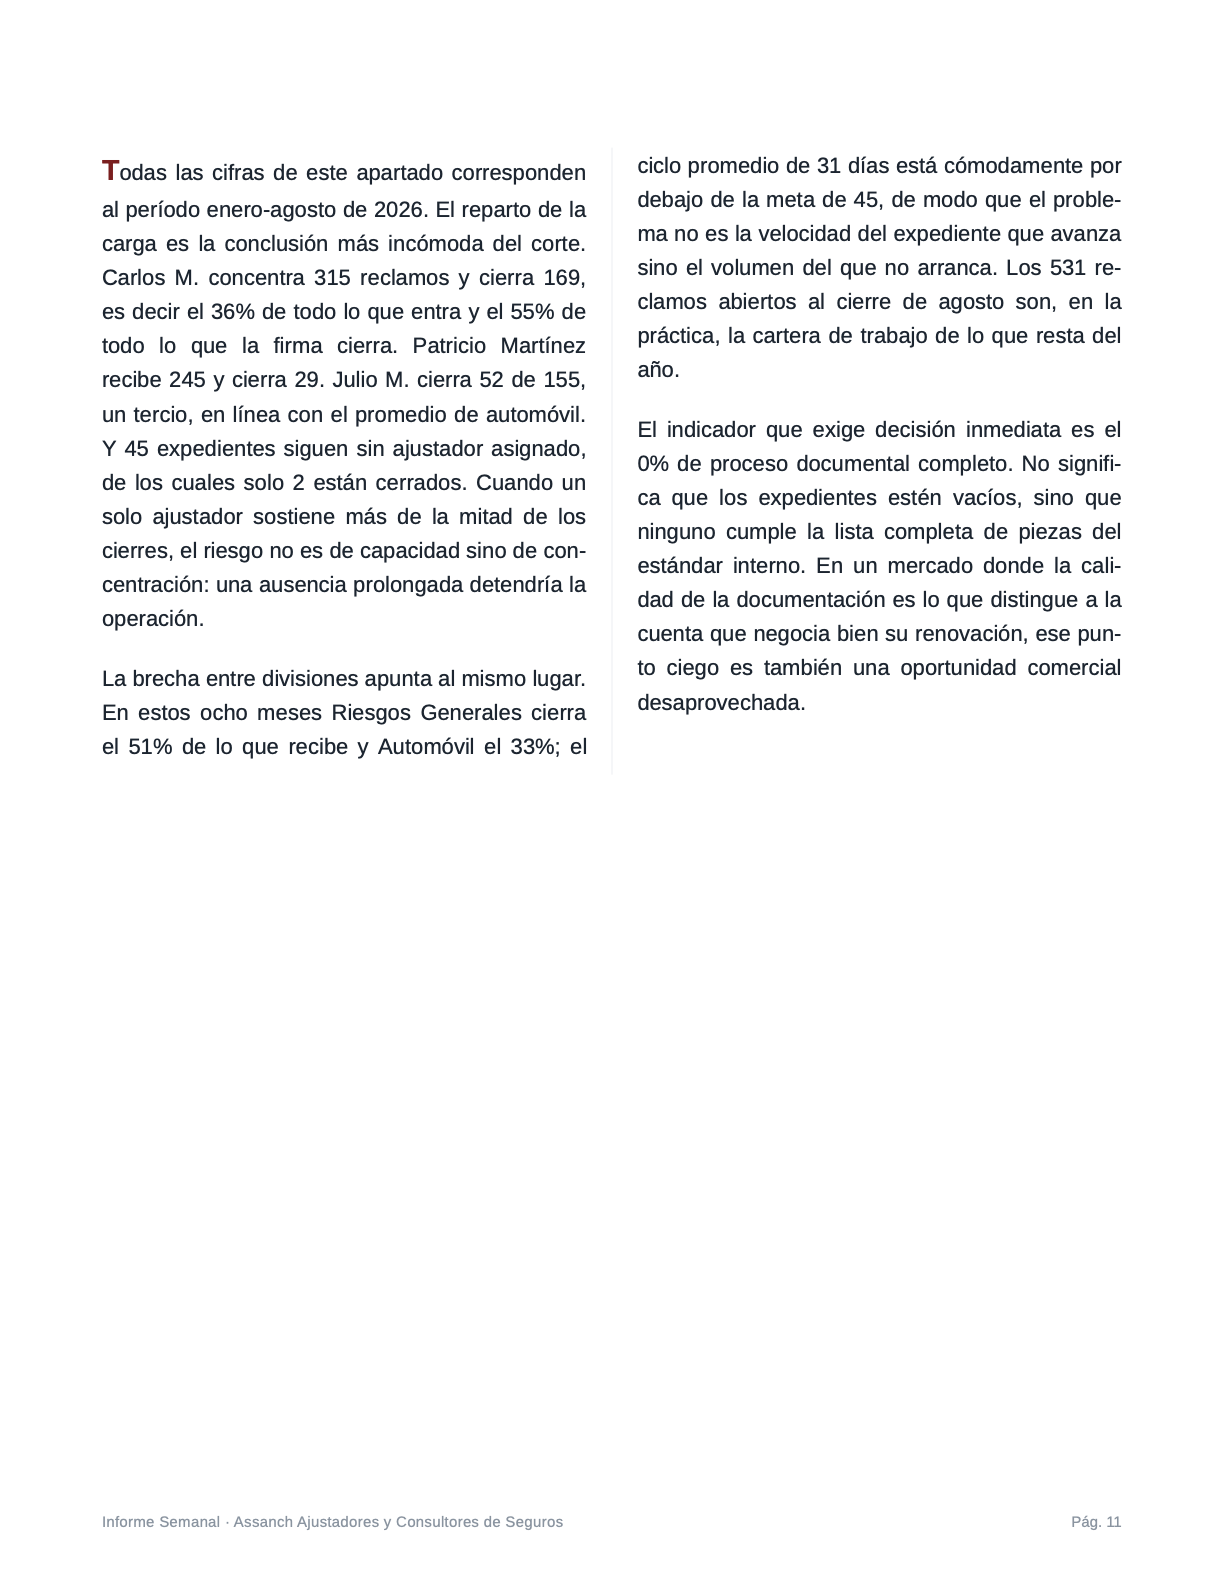
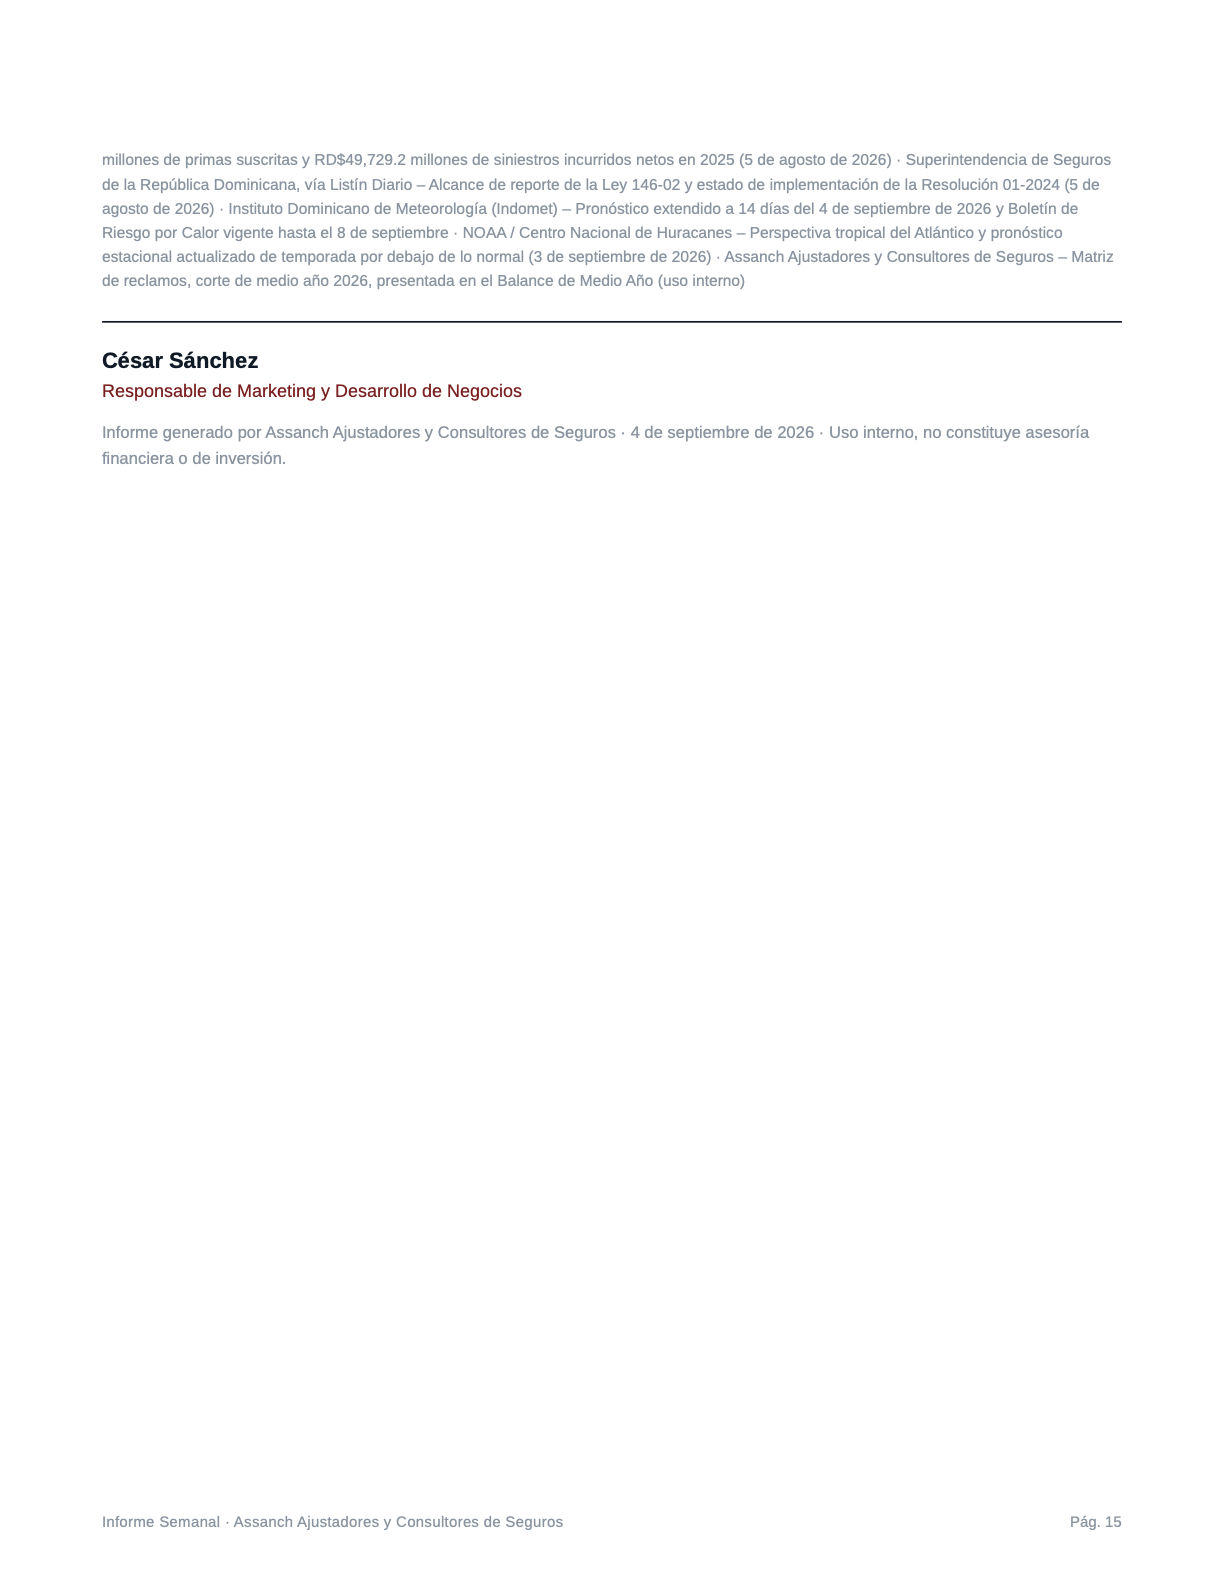
Fuera las cifras internas del balance de medio ano; se queda la IA
SEM36 pasa de 13 a 11 paginas publicadas.

SE EXCLUYEN ENTERAS:
- p10 «Los numeros de la casa»: volumen de expedientes, tasas de cierre, ciclo
  promedio y el punto ciego documental.
- p11: reparto de carga POR AJUSTADOR, con nombre y apellido y su tasa de cierre
  individual. Es lo mas sensible del informe — publica el desempeno de personas
  identificables.

SE QUEDA, RECORTADA:
- p12, la de la IA. Traia debajo las seis diapositivas del workshop en
  miniatura, y en ellas se leen numeros de expediente, nombres de clientes y de
  ajustadores. Se recorta la banda superior: queda el bloque de la IA integro,
  sin una sola cifra. La pagina es mas corta que las demas; es una
  inconsistencia visual asumida frente a publicar los datos o perder el
  contenido bueno.

CLAUDE.md recoge la regla general —fuera cifras y desempeno individual, dentro
los proyectos que fortalecen la relacion con el cliente, como la IA— y documenta
el recorte de paginas mixtas con el codigo para repetirlo.

NOTA. La pagina de la IA aparece ahora sin su encabezado de seccion, que vivia en
la p10. Se arregla en la plantilla del informe, dandole encabezado propio.

Changed region(s): [[0.0621, 0.0928, 0.9314, 0.4949]]

diff --git a/lib/contenido/informes.js b/lib/contenido/informes.js
@@ -41,7 +41,7 @@ export const informes = [
     fecha: '2026-09-04',
     resumen:
       'En Montecarlo, Aon situó el capital global de reaseguro en un récord de 800,000 millones de dólares de cara al 1 de enero, mientras Verisk elevaba a 171,000 millones anuales la pérdida catastrófica que la industria debería estar preparada para absorber. En República Dominicana, Humano Seguros puso cifra al costo del ramo de vehículos: RD$100 millones mensuales en indemnizaciones y una siniestralidad de 55 a 56 %. La edición estrena dos apartados: el ranking del sector asegurador dominicano y el balance de medio año de la firma.',
-    paginas: paginas('2026-09-04', 13),
+    paginas: paginas('2026-09-04', 11),
   },
   {
     slug: '2026-08-28',

diff --git a/CLAUDE.md b/CLAUDE.md
@@ -2,33 +2,87 @@
 
 # Reglas del proyecto ASSANCH
 
-## La Semanal — antes de publicar cualquier informe
+## La Semanal — qué se quita antes de publicar
 
-**Elimina el apartado «Implicaciones para Assanch» antes de convertir el PDF.**
+El informe se publica en un sitio web abierto y debe poder compartirse con
+personal externo. Antes de convertir el PDF hay que retirar dos cosas:
 
-Es la lectura estratégica interna de la firma. El informe se publica en un sitio
-web abierto y debe poder compartirse con personal externo, así que esa sección no
-sale. Se quita **al convertir**, no después: si la página llega a `public/`, ya es
-pública, aunque nadie la enlace.
+**1. El apartado «Implicaciones para Assanch».** Es la lectura estratégica
+interna de la firma.
+
+**2. Cifras e información confidencial de la firma.** Volumen de expedientes,
+tasas de cierre, puntos ciegos operativos y —sobre todo— el rendimiento
+individual de cada ajustador con nombre y apellido. En SEM36 eso vivía en el
+apartado «Balance de medio año · Workshop Assanch».
+
+**El balance de medio año se queda, pero sin números:** solo como información
+de la reunión y visión de cara al cliente. Las páginas de cifras —volumen de
+expedientes, tasas de cierre, reparto de carga por ajustador— se excluyen
+enteras.
+
+**Lo que SÍ se mantiene:** proyectos e iniciativas que fortalecen la relación con
+los clientes. La implementación de IA en las operaciones es el ejemplo: se
+publica. La regla no es «fuera todo lo que hable de la firma», es «fuera lo que
+un cliente o un competidor no debería ver».
+
+Ante la duda: si la página nombra a una persona del equipo junto a una métrica de
+su desempeño, o revela una debilidad operativa, no se publica.
+
+### Cómo hacerlo
 
 ```bash
-# 1. Localizar la sección (aparece dos veces: índice y sección; solo importa la sección)
+# 1. Localizar el apartado interno (aparece en el índice y en la sección;
+#    solo importa la sección).
 swift herramientas/buscar-apartado.swift informe.pdf "Implicaciones para Assanch"
 
-# 2. Convertir excluyéndola. Si continúa en la página siguiente, excluir ambas.
-swift herramientas/pdf-a-imagenes.swift informe.pdf public/informes/AAAA-MM-DD 2.0 7
+# 2. Revisar a ojo las páginas del bloque de balance interno, si lo hay.
+#    El script imprime el texto de una página:
+swift herramientas/pdf-a-imagenes.swift  # ver también buscar-apartado.swift
+
+# 3. Convertir excluyendo todas las páginas afectadas, separadas por comas.
+swift herramientas/pdf-a-imagenes.swift informe.pdf public/informes/AAAA-MM-DD 2.0 10,11,13,14
 ```
+
+### Páginas mixtas: recortar en vez de excluir
+
+A veces una página trae contenido publicable y confidencial a la vez. En SEM36,
+la página de la IA llevaba debajo las seis diapositivas del workshop en
+miniatura, y en ellas se leen números de expediente, nombres de clientes y de
+ajustadores. Excluir la página entera habría tirado también la parte que sí se
+publica.
+
+En ese caso se convierte la página y se recorta después, con Pillow:
+
+```python
+from PIL import Image
+p = 'public/informes/AAAA-MM-DD/10.png'
+im = Image.open(p)
+im.crop((0, 0, im.width, 660)).save(p)   # conserva solo la banda superior
+```
+
+La página queda más corta que las demás. Es una inconsistencia visual menor y
+asumida: preferible a publicar los datos o a perder el contenido bueno.
+
+Se excluye **al convertir**, no borrando el PNG después: si la página llega a
+`public/`, ya es pública aunque nadie la enlace — basta con adivinar la URL. Las
+páginas restantes se renumeran seguidas para que el visor no muestre huecos.
 
 Comprobar después:
 
 - El número de páginas en `lib/contenido/informes.js` es el **resultante**, no el
   del PDF original.
-- Ninguna página publicada menciona «Implicaciones para Assanch».
 - El PDF original **no** entra al repositorio.
 
-Ojo con las páginas mixtas: en SEM36 la sección terminaba en la misma página que
-el pronóstico del tiempo, así que al excluirla se pierde también el pronóstico.
-Es el precio correcto — la exposición pesa más que el recuadro del tiempo.
+Dos efectos conocidos de recortar páginas:
+
+- **Páginas mixtas.** En SEM36 el apartado estratégico terminaba en la misma
+  página que el pronóstico del tiempo, así que se pierde también el pronóstico.
+  La exposición pesa más que el recuadro del tiempo.
+- **Encabezados huérfanos.** Al quitar las primeras páginas de un apartado, la
+  que se conserva aparece sin su título de sección. Se asume mientras el
+  contenido se explique solo.
+- **El índice de la página 2 sigue listando lo retirado.** Eso se arregla en la
+  plantilla del informe, no aquí.
 
 ## Otras reglas ya asentadas
 
